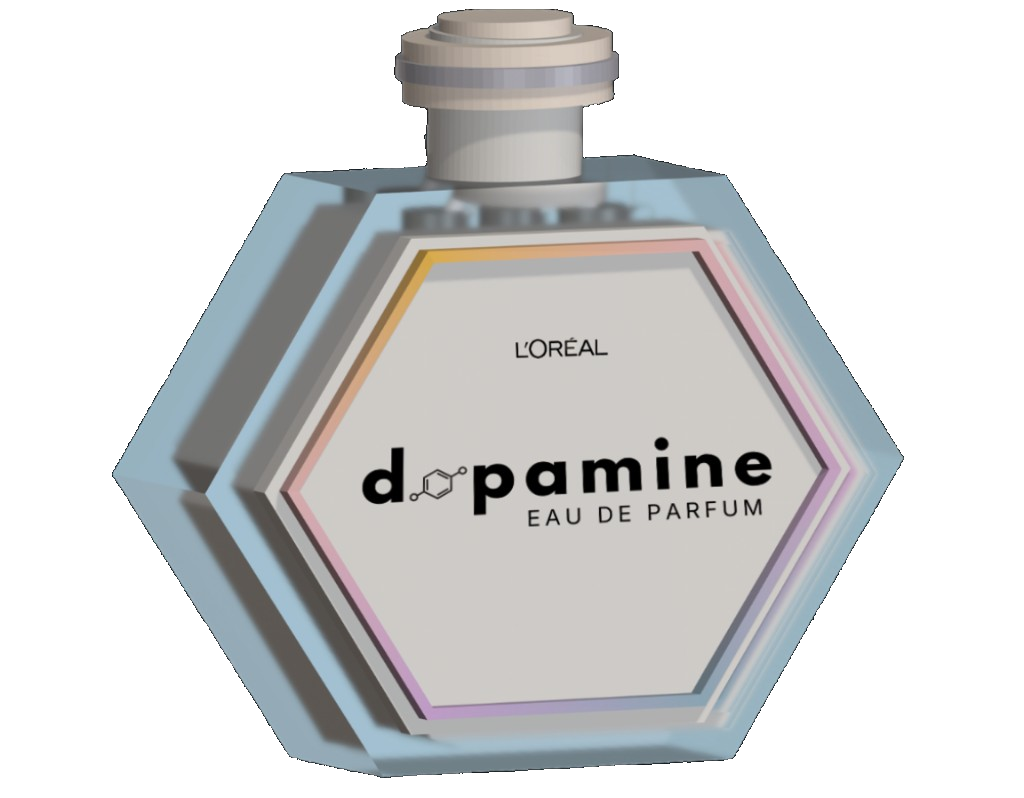
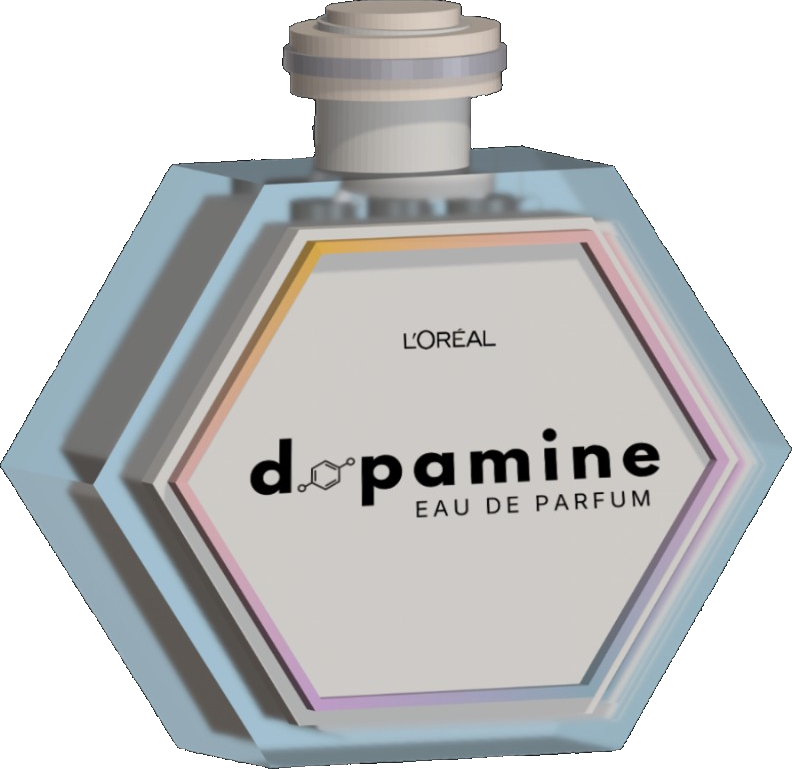
dopamine grid home

diff --git a/styles.css b/styles.css
@@ -550,6 +550,23 @@ a {
   object-position: center;
 }
 
+/* Dopamine home card: white field and a smaller bottle, matching the design */
+.project-card-2 .project-card-topbox,
+.project-card-2 .project-card-topbox--gg-thumb {
+  background: #fff;
+}
+
+.project-card-2 .project-card-topbox--gg-thumb {
+  padding: 2.75rem 2.5rem;
+}
+
+.project-card-2 .project-card-gg-hero-img {
+  width: auto;
+  max-width: 78%;
+  max-height: 18rem;
+  margin-inline: auto;
+}
+
 @media (max-width: 47.9375em) {
   .project-card-topbox {
     min-height: clamp(14rem, 72vw, 22rem);
@@ -564,9 +581,17 @@ a {
   }
 
   .project-card-1 .project-card-gg-hero-img,
-  .project-card-2 .project-card-gg-hero-img,
   .project-card-4 .project-card-gg-hero-img {
     max-height: min(22rem, 70vw);
+  }
+
+  .project-card-2 .project-card-topbox--gg-thumb {
+    padding: 1.75rem 1.25rem;
+  }
+
+  .project-card-2 .project-card-gg-hero-img {
+    max-width: 82%;
+    max-height: min(16rem, 58vw);
   }
 
   .project-card-thumb-overlay-title {
